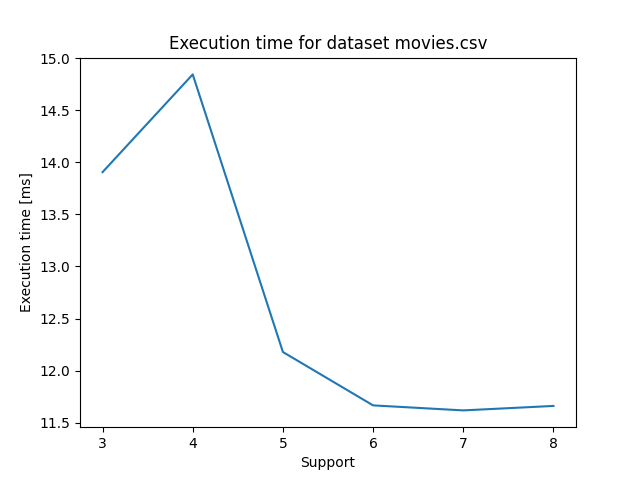
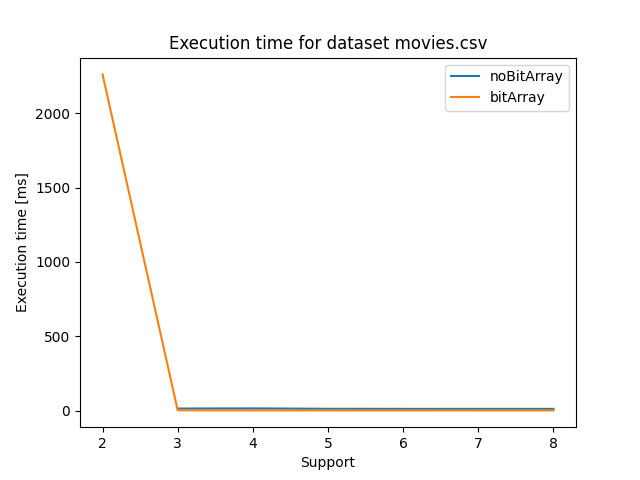
added charts for stage2

diff --git a/ploting/time.py b/ploting/time.py
@@ -2,10 +2,14 @@ import pandas as pd
 import matplotlib.pyplot as plt
 
 
-def create_time_chart(supports: list, time: list, title: str, plot_path: str, plot_format: str):
+def create_time_chart(supports_stage1: list, time_stage1: list, supports_stage2: list, time_stage2: list, title: str,
+                      plot_path: str,
+                      plot_format: str):
     plt.clf()
-    plt.plot(supports, time)
+    plt.plot(supports_stage1, time_stage1, label="noBitArray")
+    plt.plot(supports_stage2, time_stage2, label="bitArray")
     plt.title(title)
+    plt.legend()
     plt.xlabel("Support")
     plt.ylabel("Execution time [ms]")
 
@@ -20,22 +24,40 @@ def draw_time_charts():
                          "politics"]
 
     for n in time_charts_names:
-        df = pd.read_csv("./results/time/" + n + ".csv")
-        df.round({'time': 0})
-        create_time_chart(df['support'], df['time'], "Execution time for dataset " + n + ".csv", "./results/time"
-                                                                                                 "/plots/" + n +
+        df_stage1 = pd.read_csv("./results/time/" + n + ".csv")
+        df_stage1.round({'time': 0})
+
+        df_stage2 = pd.read_csv("./results/time_stage2/" + n + ".csv")
+        df_stage2.round({'time': 0})
+
+        create_time_chart(df_stage1['support'], df_stage1['time'], df_stage2['support'], df_stage2['time'],
+                          "Execution time for dataset " + n + ".csv", "./results/time"
+                                                                      "/plots/" + n +
                           ".png", "PNG")
 
         if n != "muzyka":
-            n_df = df.iloc[1:, :]
-
-            create_time_chart(n_df['support'], n_df['time'], "Execution time for dataset " + n + ".csv", "./results/time"
-                                                                                                     "/plots/" + n +
+            n_df = df_stage1.iloc[1:, :]
+            n_df2 = df_stage2.iloc[1:, :]
+            create_time_chart(n_df['support'], n_df['time'], n_df2['support'], n_df2['time'],
+                              "Execution time for dataset " + n + ".csv",
+                              "./results/time"
+                              "/plots/" + n +
                               "2.png", "PNG")
+            if n == "movies":
+                n_df = n_df.iloc[2:, :]
+                n_df2 = n_df2.iloc[2:, :]
+
+                create_time_chart(n_df['support'], n_df['time'], n_df2['support'], n_df2['time'],
+                                  "Execution time for dataset " + n + ".csv",
+                                  "./results/time"
+                                  "/plots/" + n +
+                                  "3.png", "PNG")
             if n == "cinema":
                 n_df = n_df.iloc[3:, :]
+                n_df2 = n_df2.iloc[3:, :]
 
-                create_time_chart(n_df['support'], n_df['time'], "Execution time for dataset " + n + ".csv",
+                create_time_chart(n_df['support'], n_df['time'], n_df2['support'], n_df2['time'],
+                                  "Execution time for dataset " + n + ".csv",
                                   "./results/time"
                                   "/plots/" + n +
                                   "3.png", "PNG")

diff --git a/experiments_stage2/main.py b/experiments_stage2/main.py
@@ -5,9 +5,9 @@ from time_measure import save_result_to_csv
 def main():
     dataset_paths = [['ksiazki.csv', 1],
                      ['movies.csv', 1],
-                     ['muzyka.csv', 20],    # TODO: Try smaller values, bigger than 10
+                     ['muzyka.csv', 11],
                      ['politics.csv', 1],
-                     ['cinema.csv', 2]]     # TODO: Try with 1
+                     ['cinema.csv', 2]]
 
     for p in dataset_paths:
         rows = measure_time("../dataset/" + p[0], p[1])
